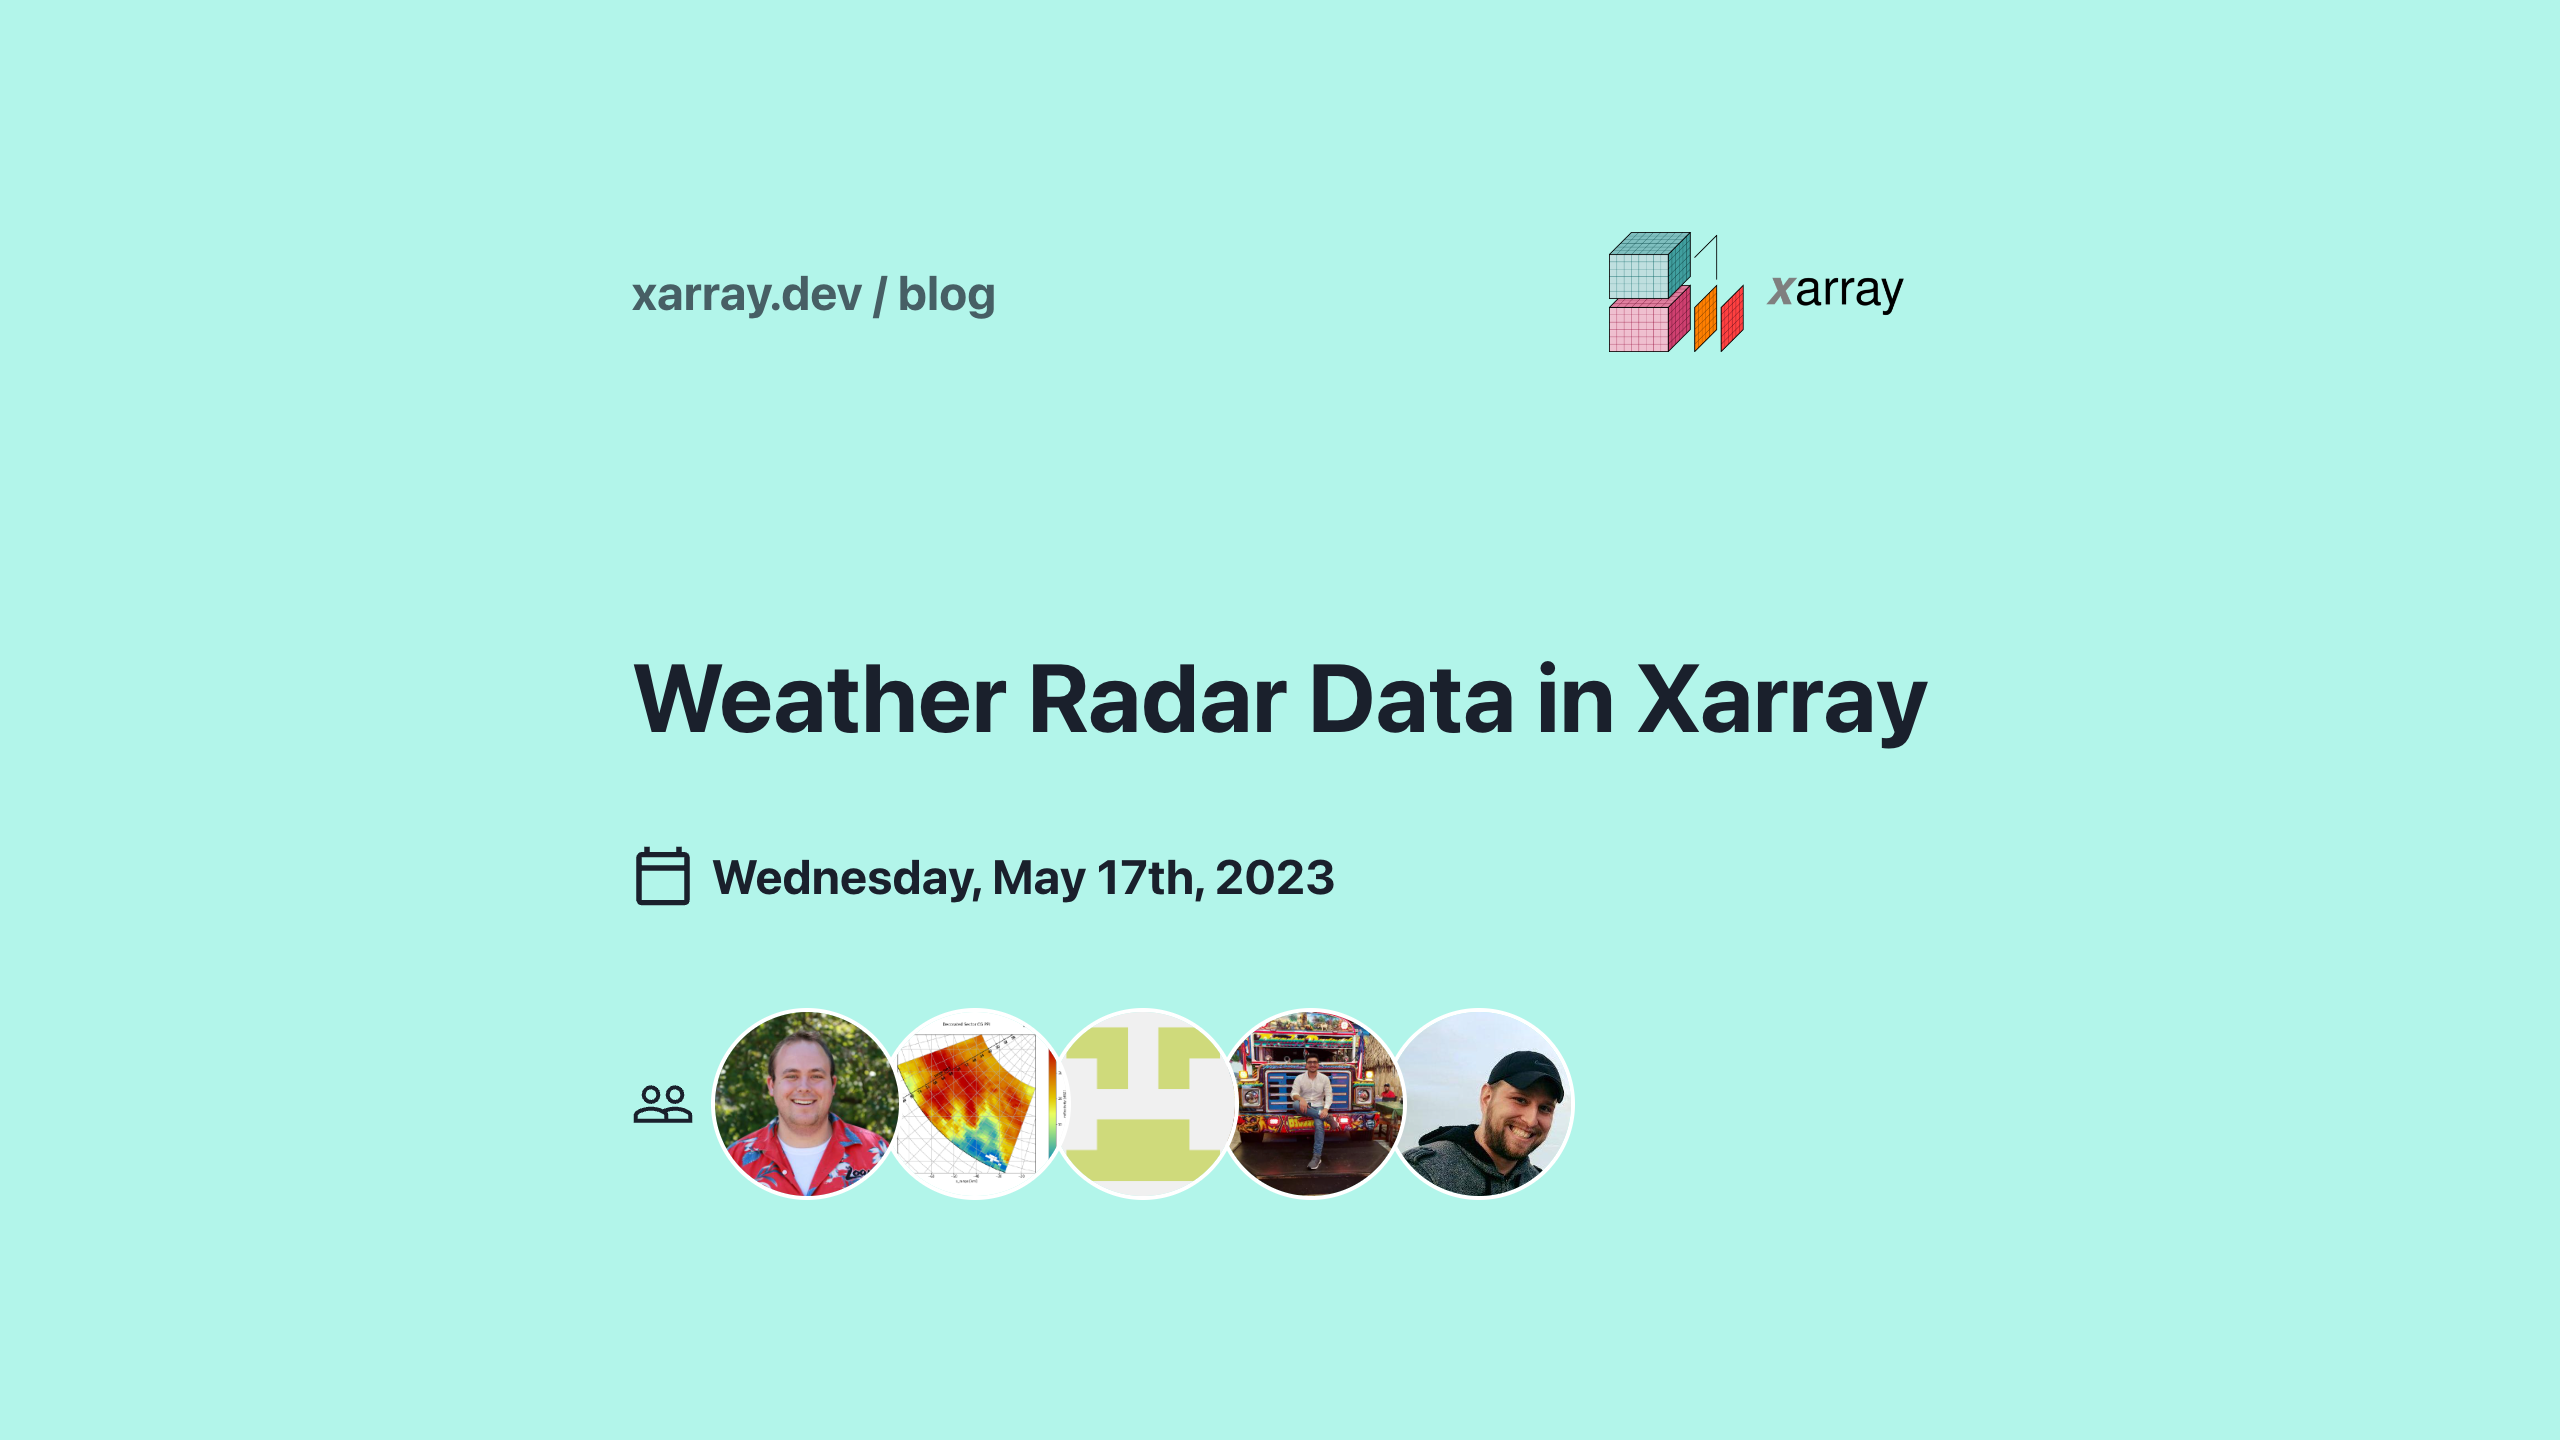
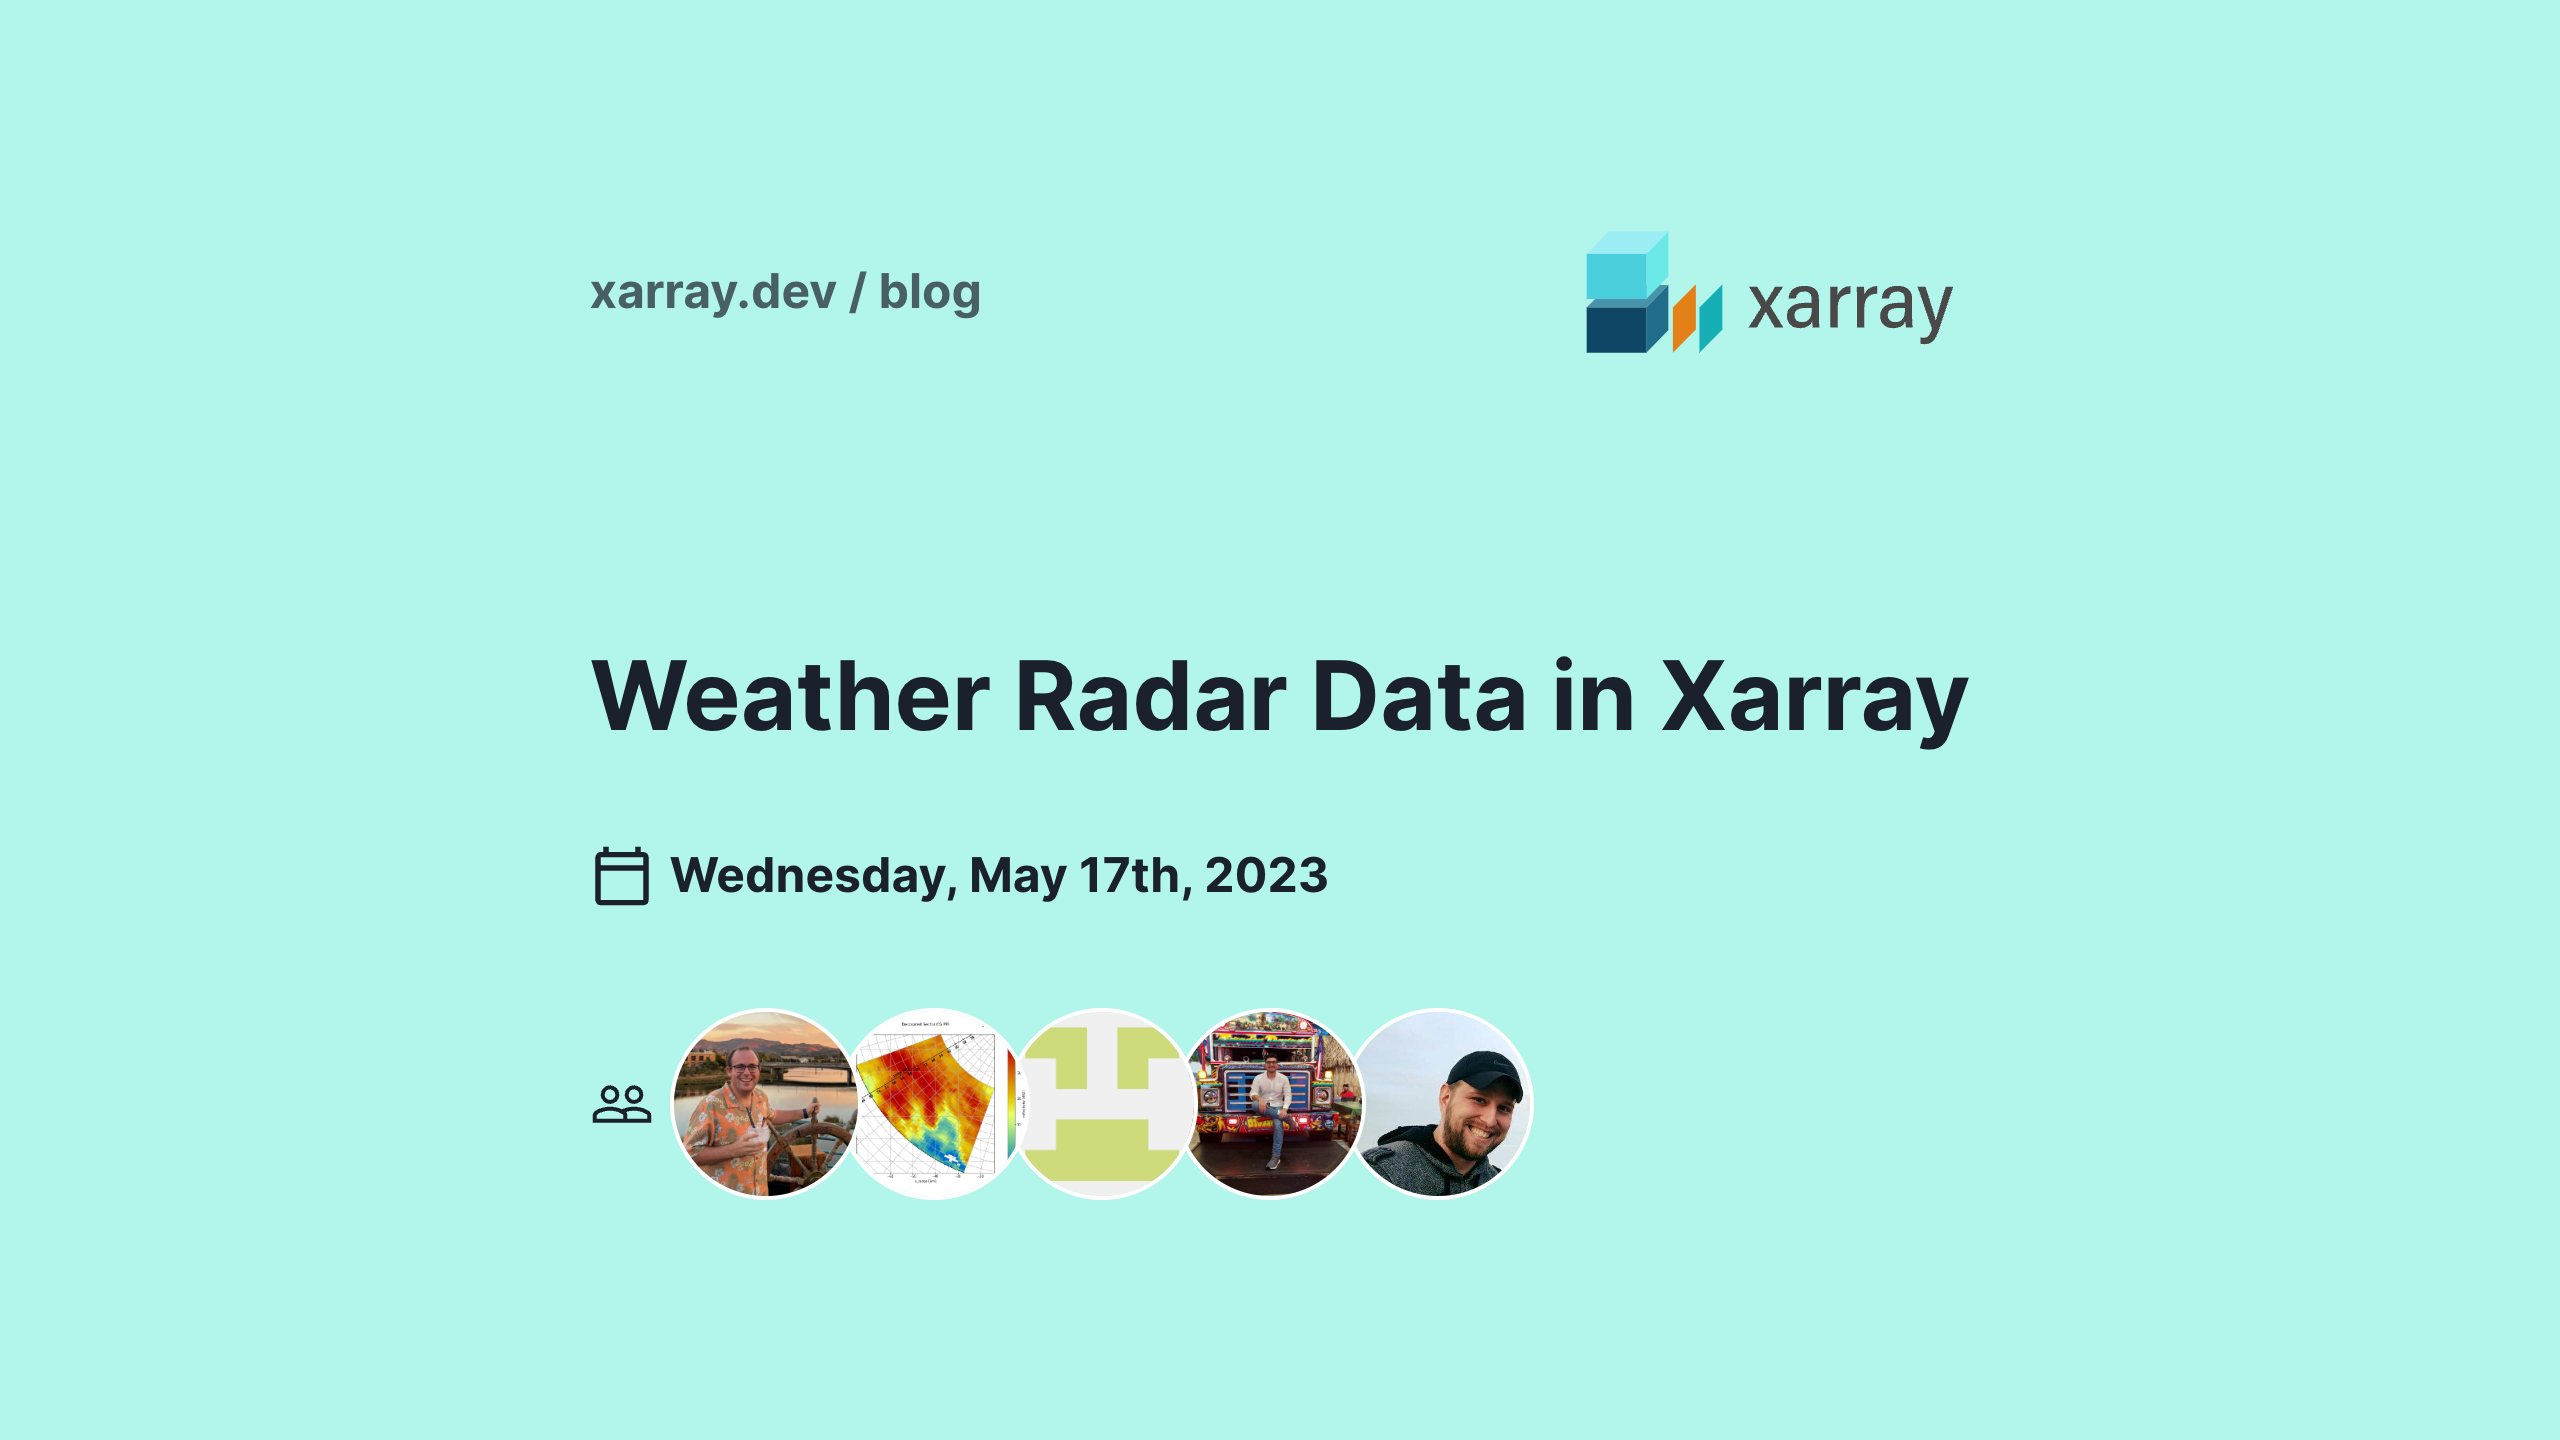
update social share cards

diff --git a/src/pages/cards/[id].js b/src/pages/cards/[id].js
@@ -46,8 +46,8 @@ const Card = ({ frontmatter, id }) => {
               <Image
                 justify={'right'}
                 align={'right'}
-                w={40}
-                src={'/Xarray-assets/Icon/Xarray_Icon_Final.png.png'}
+                w={'200px'}
+                src={'/Xarray-assets/RGB/Xarray_Logo_RGB_Final.svg'}
                 alt={'xarray logo'}
               />
             </Flex>
